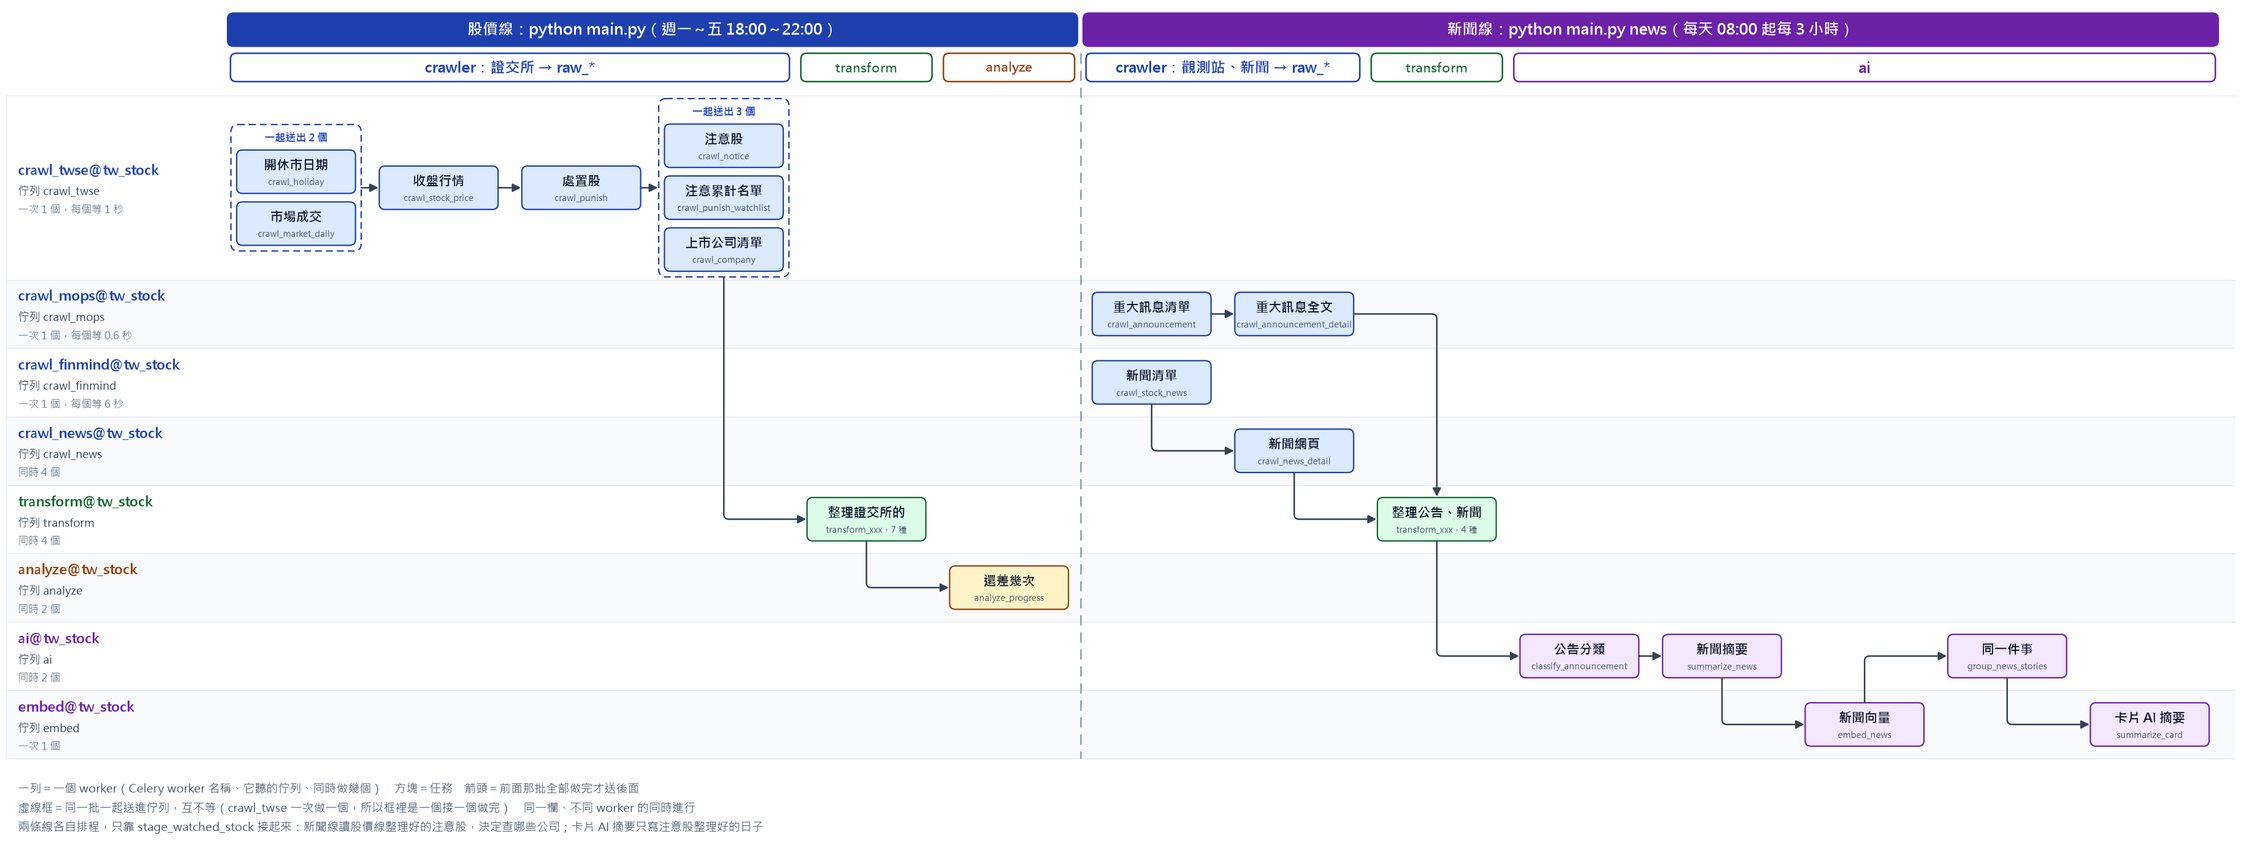
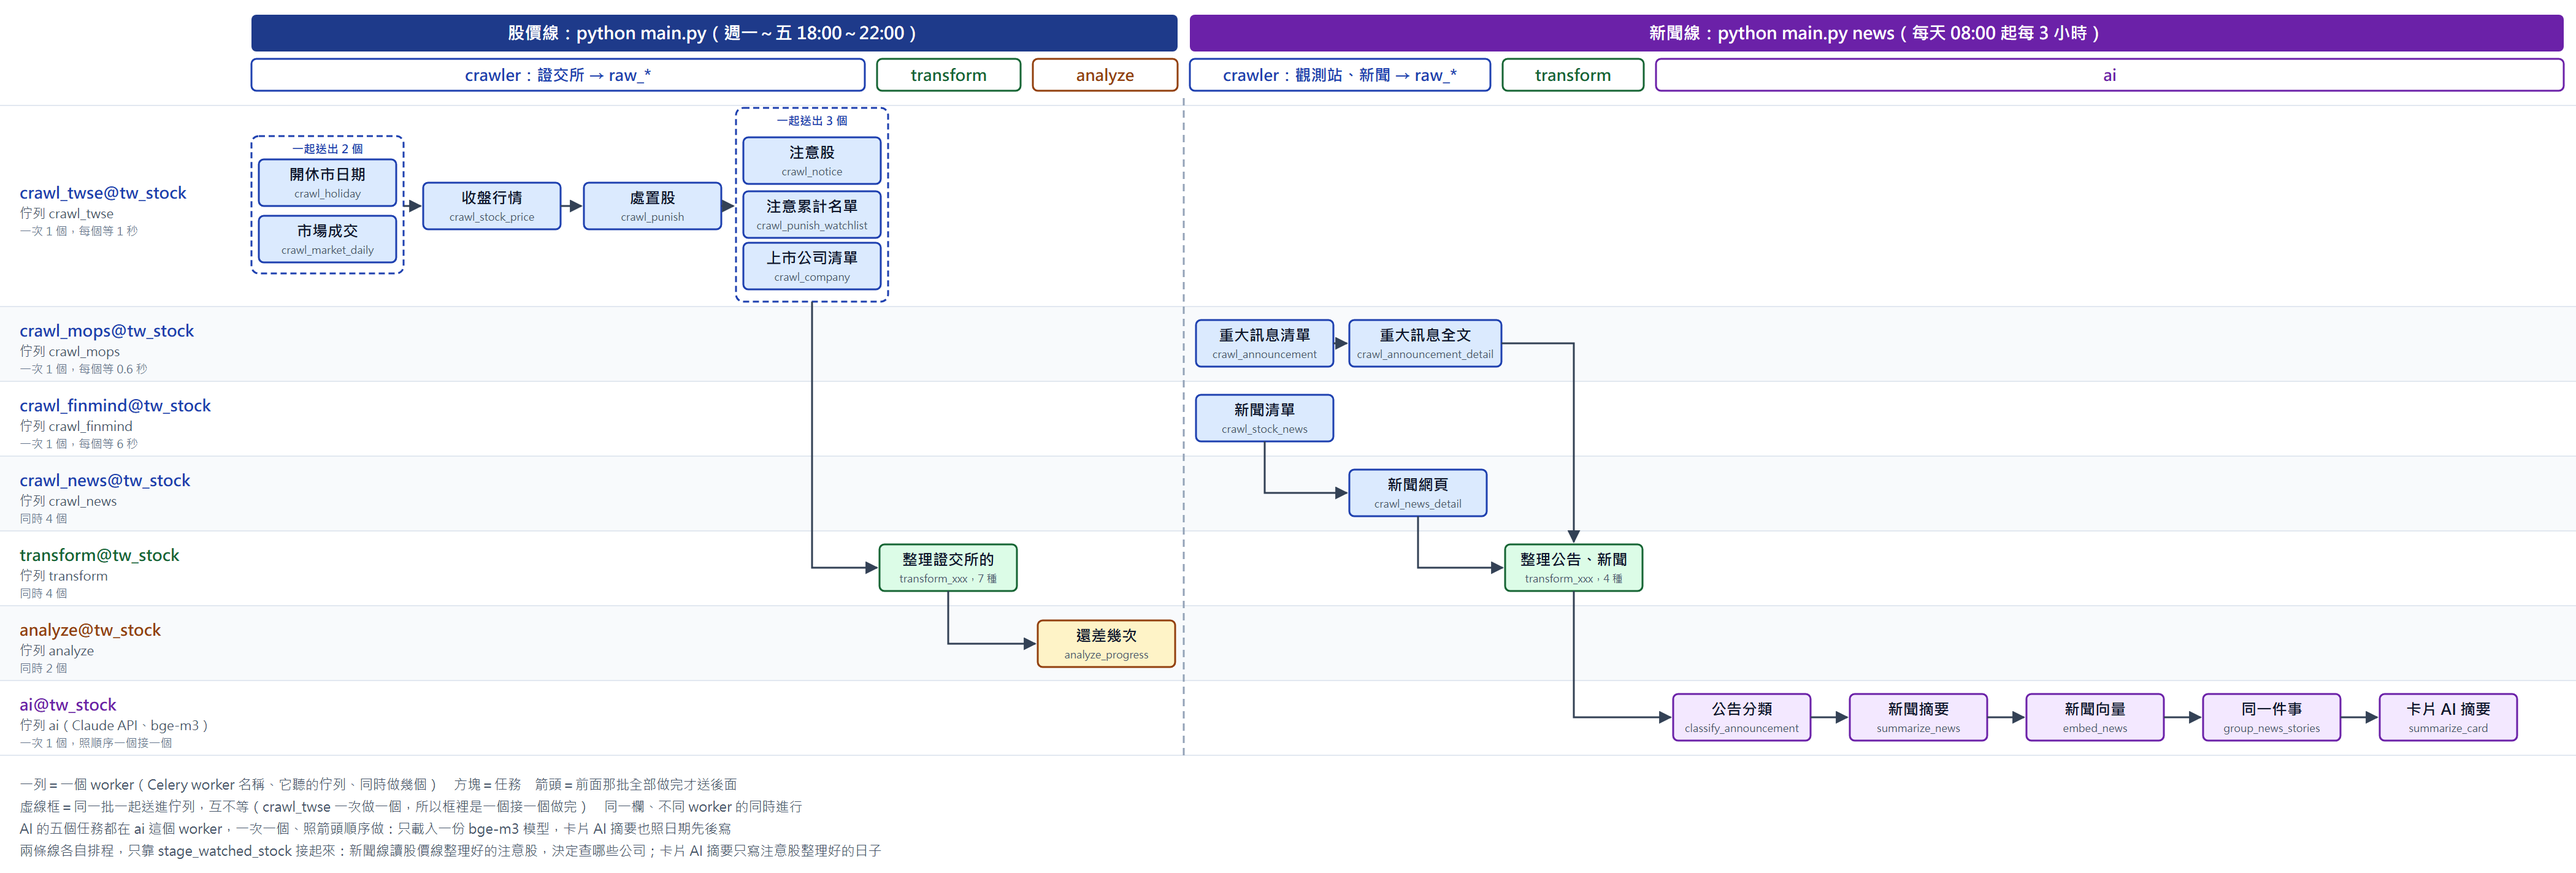
refactor: ai、embed 合成一個 worker，AI 任務一個接一個做
- 佇列 embed 和 celery-embed 拿掉，新聞向量、卡片 AI 摘要改送 ai；celery-ai 一次做一個（只載入一份 bge-m3，卡片 AI 摘要照日期先後寫），掛上模型快取 data/hf
- 文件、註解改成 7 個 worker；README 啟動加 --remove-orphans，回補提醒挑沒有排程的時段
- 重畫任務和 worker 的圖（AI 五個任務排成一列），原始檔 workers-and-tasks.svg 一起放進來

diff --git a/ai/producer.py b/ai/producer.py
@@ -11,12 +11,12 @@
 - 公告分類：區間內發言、有全文、這個 prompt 版本還沒分類的公告 → ai_announcement_label（佇列 ai）
 - 新聞摘要：區間內（往前多 NEWS_LOOKBACK_DAYS 天）被關注的股票、有抓到網頁、全文夠長、這一版還沒摘要的新聞 → ai_news_summary（佇列 ai）
 - 新聞 RAG：區間內（往前多 NEWS_LOOKBACK_DAYS 天）每天一個任務，標題＋新聞摘要轉成向量 → ai_news_embedding
-  （佇列 embed，不用 API key；要在新聞摘要之後）
+  （佇列 ai，不用 API key；要在新聞摘要之後）
 - 同一件事：整段區間（往前多 NEWS_LOOKBACK_DAYS 天）一個任務，好幾家報同一件事的新聞歸在一起 → ai_news_story（佇列 ai，不用 API key）
 - 卡片 AI 摘要：區間內（往前多 NEWS_LOOKBACK_DAYS 天，補沒寫成的）每個交易日、卡片牆上的每一張
   （stage_watched_stock：往前 30 個交易日被列注意過的上市公司），要的資料都到了才寫，一檔一天一個任務 → ai_card_summary
-  （佇列 embed：查詢也要轉向量；要在公告分類、新聞 RAG 之後）
-順序：公告分類 → 新聞摘要 → 新聞 RAG → 同一件事 → 卡片 AI 摘要。
+  （佇列 ai；要在公告分類、新聞 RAG 之後）
+順序：公告分類 → 新聞摘要 → 新聞 RAG → 同一件事 → 卡片 AI 摘要，全部送佇列 ai（celery-ai 一次做一個，見 common/worker.py）。
 沒設 ANTHROPIC_API_KEY 就跳過要呼叫 Claude 的項目（新聞 RAG 的向量照樣轉，只用標題和導言），不算失敗。
 失敗只影響 AI 的結果，規則引擎算的還差幾次不受影響。
 新聞（FinMind 清單、新聞網頁的導言）由 crawler、transform 抓和整理；摘要要的全文由 task 當場再抓（見 ai/task.py）。
@@ -58,7 +58,7 @@ def build_card_jobs(start: str, end: str) -> list[tuple]:
     """卡片 AI 摘要：區間內（往前多 NEWS_LOOKBACK_DAYS 天）每個交易日、卡片牆上的每一張（stage_watched_stock），
     這一版還沒寫、要的資料都到了的各一個任務（見 repository.list_unsummarized_cards）。
     往前多看：股價線很晚才跑完、新聞抓失敗，沒寫成的卡片之後照樣補寫。
-    照日期排：輸入和前一天一樣就沿用前一天的摘要，要前一天先寫好（embed worker 一次做一個，照送出的順序做）。"""
+    照日期排：輸入和前一天一樣就沿用前一天的摘要，要前一天先寫好（ai worker 一次做一個，照送出的順序做）。"""
     rows = repository.list_unsummarized_cards(parse_yyyymmdd(days_before(start, NEWS_LOOKBACK_DAYS)), parse_yyyymmdd(end),
                                               card_summarizer.PROMPT_VERSION)
     return [(task.summarize_card, {"stock_id": stock_id, "date_yyyymmdd": to_yyyymmdd(day)}) for stock_id, day in rows]
@@ -67,7 +67,7 @@ def build_card_jobs(start: str, end: str) -> list[tuple]:
 def run_all(start: str, end: str) -> list[str]:
     """公告分類 → 新聞摘要 → 新聞 RAG → 同一件事 → 卡片 AI 摘要，回傳失敗的任務。
 
-    用到本機 embedding 模型的任務送 embed 佇列（只有 celery-embed 載入模型），其他送 ai。
+    全部送 ai 佇列（celery-ai 一次做一個：只載入一份 embedding 模型，卡片 AI 摘要照日期先後寫）。
     要呼叫 Claude 的項目沒有 API key 就跳過；向量、同一件事不用 key，照樣跑（夾在中間，順序不能換）。
     """
     failed = []
@@ -76,10 +76,10 @@ def run_all(start: str, end: str) -> list[str]:
         failed += runner.run_jobs(build_summary_jobs(start, end), queue="ai")
     else:
         print("沒設 ANTHROPIC_API_KEY，跳過公告分類、新聞摘要、卡片 AI 摘要")
-    failed += runner.run_jobs(build_embed_jobs(start, end), queue="embed")   # 轉標題＋新聞摘要，排在新聞摘要後面
-    failed += runner.run_jobs(build_story_jobs(start, end), queue="ai")      # 用新聞向量，不用 API key
+    failed += runner.run_jobs(build_embed_jobs(start, end), queue="ai")    # 轉標題＋新聞摘要，排在新聞摘要後面
+    failed += runner.run_jobs(build_story_jobs(start, end), queue="ai")    # 用新聞向量，不用 API key
     if ANTHROPIC_API_KEY:
-        failed += runner.run_jobs(build_card_jobs(start, end), queue="embed")   # 用到公告分類、新聞 RAG 的結果，排最後
+        failed += runner.run_jobs(build_card_jobs(start, end), queue="ai")    # 用到公告分類、新聞 RAG 的結果，排最後
     return failed
 
 

diff --git a/common/worker.py b/common/worker.py
@@ -6,11 +6,10 @@
     celery -A common.worker worker -Q crawl_news --concurrency 4   # 打開新聞網頁（存 <head>）：分散在十幾個網站，同時做 4 個
     celery -A common.worker worker -Q transform --concurrency 4    # 整理（transform）：可以同時做好幾個
     celery -A common.worker worker -Q analyze --concurrency 2      # 計算（analyze）：同上
-    celery -A common.worker worker -Q ai --concurrency 2           # AI（ai/）：呼叫 Claude API（公告分類、新聞摘要）、同一件事
-    celery -A common.worker worker -Q embed --concurrency 1        # 用本機 embedding 模型的 AI 任務（新聞 RAG、卡片 AI 摘要）
+    celery -A common.worker worker -Q ai --concurrency 1           # AI（ai/）：Claude API 和本機 embedding 模型，一次做一個
 
-docker-compose.yml 已經把這八個 worker（服務 celery-crawl-twse、celery-crawl-mops、celery-crawl-finmind、celery-crawl-news、
-celery-transform、celery-analyze、celery-ai、celery-embed）
+docker-compose.yml 已經把這七個 worker（服務 celery-crawl-twse、celery-crawl-mops、celery-crawl-finmind、celery-crawl-news、
+celery-transform、celery-analyze、celery-ai）
 和 RabbitMQ、Flower 都寫好，平常用 docker compose 啟動就好。
 
 任務：crawler/task.py、transform/task.py、analyze/task.py、ai/task.py 裡每個函式都用 @app.task 註冊成 Celery 任務
@@ -26,14 +25,15 @@ producer 送任務的寫法和課程一樣：task.crawl_notice.s(date_yyyymmdd="
   同時打的大多是不同網站，每個做完照樣等一下（NewsDetailJob）。
 - transform：raw → stage，只讀寫自己的資料庫，同時做 4 個；stage 寫入本來就設計成多個 worker 同時寫也不會錯（見 docs/flow.md）。
 - analyze：stage → app，同時做 2 個（每天讀往前 30 個營業日，天和天之間互不依賴）。
-- ai：呼叫 Claude API，同時做 2 個（API 也有每分鐘的次數限制；429 會等一下重做）。同一件事（group_news_stories，不呼叫 API）也在這裡。
-- embed：要用本機 embedding 模型的任務（新聞的標題＋新聞摘要轉向量；卡片 AI 摘要要把查詢轉向量，也放這裡），一次做一個。
-  一次做一個也讓卡片 AI 摘要照日期先後寫（沿用前一天的摘要要等前一天寫好），不要調高。
-  只有這個 worker 載入模型（約 2.3 GB 記憶體），其他 worker 不會多佔一份。
+- ai：AI 的五個任務都在這裡：呼叫 Claude API 的（公告分類、新聞摘要、卡片 AI 摘要；429 會等一下重做）、
+  用本機 embedding 模型的（新聞的標題＋新聞摘要轉向量；卡片 AI 摘要要把查詢轉向量）、同一件事（不呼叫 API）。一次做一個，不要調高：
+  每個子行程會各載入一份模型（約 2.3 GB 記憶體），而且卡片 AI 摘要要照日期先後寫（沿用前一天的摘要要等前一天寫好；
+  某一天遇到 429 被排回去重試時，後一天會先寫，就沒得沿用，只是多問一次 Claude）。
+  只有這個 worker 載入模型，其他 worker 不會多佔一份。大量回補（幾千個任務）會讓排程的新聞線排在後面等，挑沒有排程的時段跑。
 
 結果：用 rpc://（結果經 RabbitMQ 送回給送任務的 producer），producer 等這一批都做完才送下一批。
 紀錄：每個任務跑完寫一列任務歷史（tw_stock.job_run）；文字 log 另外寫到 LOG_DIR/<worker 名稱>-YYYY-MM-DD.log
-（crawl_twse、crawl_mops、crawl_finmind、crawl_news、transform、analyze、ai、embed，取自 --hostname 的 @ 前面，
+（crawl_twse、crawl_mops、crawl_finmind、crawl_news、transform、analyze、ai，取自 --hostname 的 @ 前面，
 例如 crawl_twse@tw_stock；每天一個檔，留 LOG_KEEP_DAYS 天，見 common/logs.py），畫面上（docker compose logs）照樣看得到。
 """
 import logging

diff --git a/ai/task.py b/ai/task.py
@@ -17,8 +17,7 @@
 只讀 stage 表和前面的 AI 結果，不讀規則引擎的結果（app）：新聞線跑它，和股價線的 analyze 互不等。
 只寫自己的 ai_* 表，失敗不影響資料線和其他任務。
 例外：summarize_news 要新聞全文，全文不存進資料庫（著作權），只能當場再抓一次網頁（用 crawler/client.py 的函式，不另寫爬蟲）。
-每個函式都用 @app.task 註冊成 Celery 任務（見 common/worker.py）；要用本機 embedding 模型的（embed_news、summarize_card）
-在 embed 佇列上跑，其他在 ai 佇列；
+每個函式都用 @app.task 註冊成 Celery 任務（見 common/worker.py），全部在 ai 佇列上跑（一次一個）；
 shorten_once、fix_numbers_once、fix_answer、asker、skip_news、card_news 是任務用的小函式，不是任務。
 """
 import requests
@@ -127,7 +126,7 @@ def summarize_news(news_id: str) -> str:
     網頁這次打不開（被擋、不是網頁）或全文太短就跳過，不問 LLM；5xx、429、逾時丟錯誤重試（requests 的錯誤）。
     摘要上限依文章長度（summarizer.summary_limit：文章的三成，80～1200 字）；
     超過就請 LLM 縮短，只重問一次（和公告分類一樣），還是太長就照存，summary_ok＝否。
-    在 ai 佇列上跑（同時 2 個），沒有 NewsDetailJob 的間隔：要摘要的網頁分散在十幾個網站，同一個網站不會被連續打。
+    在 ai 佇列上跑（一次一個），沒有 NewsDetailJob 的間隔：要摘要的網頁分散在十幾個網站，同一個網站不會被連續打。
     """
     if repository.has_news_summary(news_id, summarizer.PROMPT_VERSION):
         return f"{news_id} 這一版（{summarizer.PROMPT_VERSION}）已經有結果，跳過（摘要過了，或網頁 1 天內打不開、明天再試）"

diff --git a/tests/test_common_worker.py b/tests/test_common_worker.py
@@ -258,12 +258,12 @@ def test_job_log_failure_does_not_break_the_task(monkeypatch, capsys):
 
 
 @pytest.mark.parametrize("key, expected", [
-    ("key", [("build_classify_jobs", "ai"), ("build_summary_jobs", "ai"), ("build_embed_jobs", "embed"),
-             ("build_story_jobs", "ai"), ("build_card_jobs", "embed")]),
-    ("", [("build_embed_jobs", "embed"), ("build_story_jobs", "ai")]),
+    ("key", [("build_classify_jobs", "ai"), ("build_summary_jobs", "ai"), ("build_embed_jobs", "ai"),
+             ("build_story_jobs", "ai"), ("build_card_jobs", "ai")]),
+    ("", [("build_embed_jobs", "ai"), ("build_story_jobs", "ai")]),
 ])
 def test_ai_producer_order_and_queues(monkeypatch, key, expected):
-    """公告分類 → 新聞摘要 → 新聞向量 → 同一件事 → 卡片 AI 摘要；用本機模型的送 embed，其他送 ai。
+    """公告分類 → 新聞摘要 → 新聞向量 → 同一件事 → 卡片 AI 摘要，全部送 ai。
     沒有 API key：只做不用 Claude 的新聞向量、同一件事。"""
     sent = []
     monkeypatch.setattr(ai_producer, "ANTHROPIC_API_KEY", key)

diff --git a/common/runner.py b/common/runner.py
@@ -105,7 +105,7 @@ def run_jobs(jobs: list[tuple], sleep: float = 0.0, retries: int = MAX_RETRIES, 
 
     sleep：每個任務之後等幾秒（打 API 太快會被擋）。retries：暫時性的失敗重試幾次（見 is_retryable）。
     queue：USE_CELERY=1 時送到哪個佇列
-    （crawl_twse、crawl_mops、crawl_finmind、crawl_news、transform、analyze、ai、embed，見 common/worker.py），
+    （crawl_twse、crawl_mops、crawl_finmind、crawl_news、transform、analyze、ai，見 common/worker.py），
     一定要給；沒開就在這裡依序執行，不用給。
     """
     if USE_CELERY:   # 重試、間隔都在 worker 那邊做（Job）

diff --git a/ai/embedder.py b/ai/embedder.py
@@ -4,7 +4,7 @@
   to_pgvector(vector)、from_pgvector(text)：向量 ↔ pgvector 的寫法 "[0.1,0.2,…]"
 
 模型第一次用時從 Hugging Face 下載（約 2.3 GB），存在 HF_HOME（容器裡是 /app/data/hf，重建 image 不用再下載）。
-一個行程只載入一次（get_model 有快取）；只有 embed worker（celery-embed）載入模型，其他 worker 不會多佔一份記憶體。
+一個行程只載入一次（get_model 有快取）；只有 ai worker（celery-ai）載入模型，其他 worker 不會多佔一份記憶體。
 """
 import functools
 import json

diff --git a/docs/queues.md b/docs/queues.md
@@ -8,8 +8,8 @@ Celery 把「決定要做什麼」和「真的去做」分開，中間用 Rabbit
 
 ```
 producer（列出要做的任務）
-  → RabbitMQ（8 個佇列，任務在這裡排隊）
-  → worker（8 個，各自從自己的佇列拿任務去做）
+  → RabbitMQ（7 個佇列，任務在這裡排隊）
+  → worker（7 個，各自從自己的佇列拿任務去做）
   → PostgreSQL（寫結果）
   → 做完回報給 producer
 ```
@@ -17,8 +17,8 @@ producer（列出要做的任務）
 | 角色 | 在這個專案 | 比喻 |
 |---|---|---|
 | producer | `crawler/`、`transform/`、`analyze/`、`ai/` 各一個 `producer.py` | 主管：寫工作單 |
-| 佇列（RabbitMQ） | 8 個佇列 | 收件匣：工作單在這裡排隊 |
-| worker | 8 個 `celery-*` 容器，一個聽一個佇列 | 員工：從自己的收件匣拿工作單去做 |
+| 佇列（RabbitMQ） | 7 個佇列 | 收件匣：工作單在這裡排隊 |
+| worker | 7 個 `celery-*` 容器，一個聽一個佇列 | 員工：從自己的收件匣拿工作單去做 |
 
 一個任務＝一件小事，例如「抓 11/23 的注意股」「替這則新聞寫摘要」。
 
@@ -28,7 +28,7 @@ producer（列出要做的任務）
 
 ![任務和 worker](images/workers-and-tasks.png)
 
-表裡的「佇列」是任務送進哪個佇列；聽這個佇列的 worker 見下面「8 個 worker」。
+表裡的「佇列」是任務送進哪個佇列；聽這個佇列的 worker 見下面「7 個 worker」。
 
 | 線 | 步驟 | 任務 | 佇列 | 為什麼排在這裡 |
 |---|---|---|---|---|
@@ -43,11 +43,11 @@ producer（列出要做的任務）
 | 新聞線 | 2 | `transform_xxx` 整理重大訊息、新聞（4 種） | `transform` | 要先抓好 |
 | 新聞線 | 3 | `classify_announcement` 公告分類 | `ai` | AI 照這個順序：後面的用前面的結果；呼叫 Claude |
 | 新聞線 | 3 | `summarize_news` 新聞摘要 | `ai` | 呼叫 Claude |
-| 新聞線 | 3 | `embed_news` 新聞向量 | `embed` | 要用 bge-m3 把「標題＋摘要」轉成向量（摘要要先寫好） |
+| 新聞線 | 3 | `embed_news` 新聞向量 | `ai` | 要用 bge-m3 把「標題＋摘要」轉成向量（摘要要先寫好） |
 | 新聞線 | 3 | `group_news_stories` 同一件事 | `ai` | 只比資料庫裡已經有的向量，不用模型 |
-| 新聞線 | 3 | `summarize_card` 卡片 AI 摘要 | `embed` | 查詢也要用 bge-m3 轉成向量，才能挑相關的新聞；再呼叫 Claude。只寫那天的注意股、處置股、收盤行情都整理好的日子（股價線跑完以後） |
+| 新聞線 | 3 | `summarize_card` 卡片 AI 摘要 | `ai` | 查詢也要用 bge-m3 轉成向量，才能挑相關的新聞；再呼叫 Claude。只寫那天的注意股、處置股、收盤行情都整理好的日子（股價線跑完以後） |
 
-AI 這段在 `ai` 和 `embed` 兩個 worker 之間輪流（圖上一上一下）：要用本機 embedding 模型（bge-m3）的任務都送 `embed`，只有它載入模型（約 2.3 GB 記憶體，只載一份）；其他的送 `ai`。順序不能換：向量要用摘要、歸類要用向量、卡片摘要要用前面全部的結果。
+AI 這段五個任務都在 `ai` 一個 worker，一次做一個：只有它載入本機 embedding 模型（bge-m3，約 2.3 GB 記憶體，只載一份）。順序不能換：向量要用摘要、歸類要用向量、卡片摘要要用前面全部的結果。
 
 ## 兩條線的排程
 
@@ -80,7 +80,7 @@ AI 這段在 `ai` 和 `embed` 兩個 worker 之間輪流（圖上一上一下）
 | app | 先刪那天、再寫入（同一個交易） |
 | ai | 同一版 prompt 已經有結果的不再問，不會重複花錢 |
 
-## 8 個 worker
+## 7 個 worker
 
 一個 worker 聽一個佇列。三個名字各用在不同地方：Docker 服務（`wsl docker compose restart`）、Celery worker 名稱（Flower、`job_run.worker`）、佇列（RabbitMQ、送任務時指定）。
 
@@ -92,8 +92,7 @@ AI 這段在 `ai` 和 `embed` 兩個 worker 之間輪流（圖上一上一下）
 | `celery-crawl-news` | `crawl_news@tw_stock` | `crawl_news` | 打開新聞網頁 | 4 | 分散在十幾個網站 |
 | `celery-transform` | `transform@tw_stock` | `transform` | raw → stage | 4 | 只碰資料庫 |
 | `celery-analyze` | `analyze@tw_stock` | `analyze` | 算還差幾次 | 2 | 只碰資料庫 |
-| `celery-ai` | `ai@tw_stock` | `ai` | 呼叫 Claude | 2 | API 有每分鐘的上限 |
-| `celery-embed` | `embed@tw_stock` | `embed` | 用 bge-m3 轉向量、寫卡片摘要 | 1 | 模型吃 2.3 GB 記憶體 |
+| `celery-ai` | `ai@tw_stock` | `ai` | 呼叫 Claude、用 bge-m3 轉向量、寫卡片摘要 | 1 | 模型吃 2.3 GB 記憶體，每多一個就多載一份；卡片摘要要照日期先後寫 |
 
 **為什麼要分這麼多個**：Celery 的「同時做幾個」設在 worker 上，所以每個來源要自己的速度，就要自己的佇列和 worker。只用一個佇列會：
 
